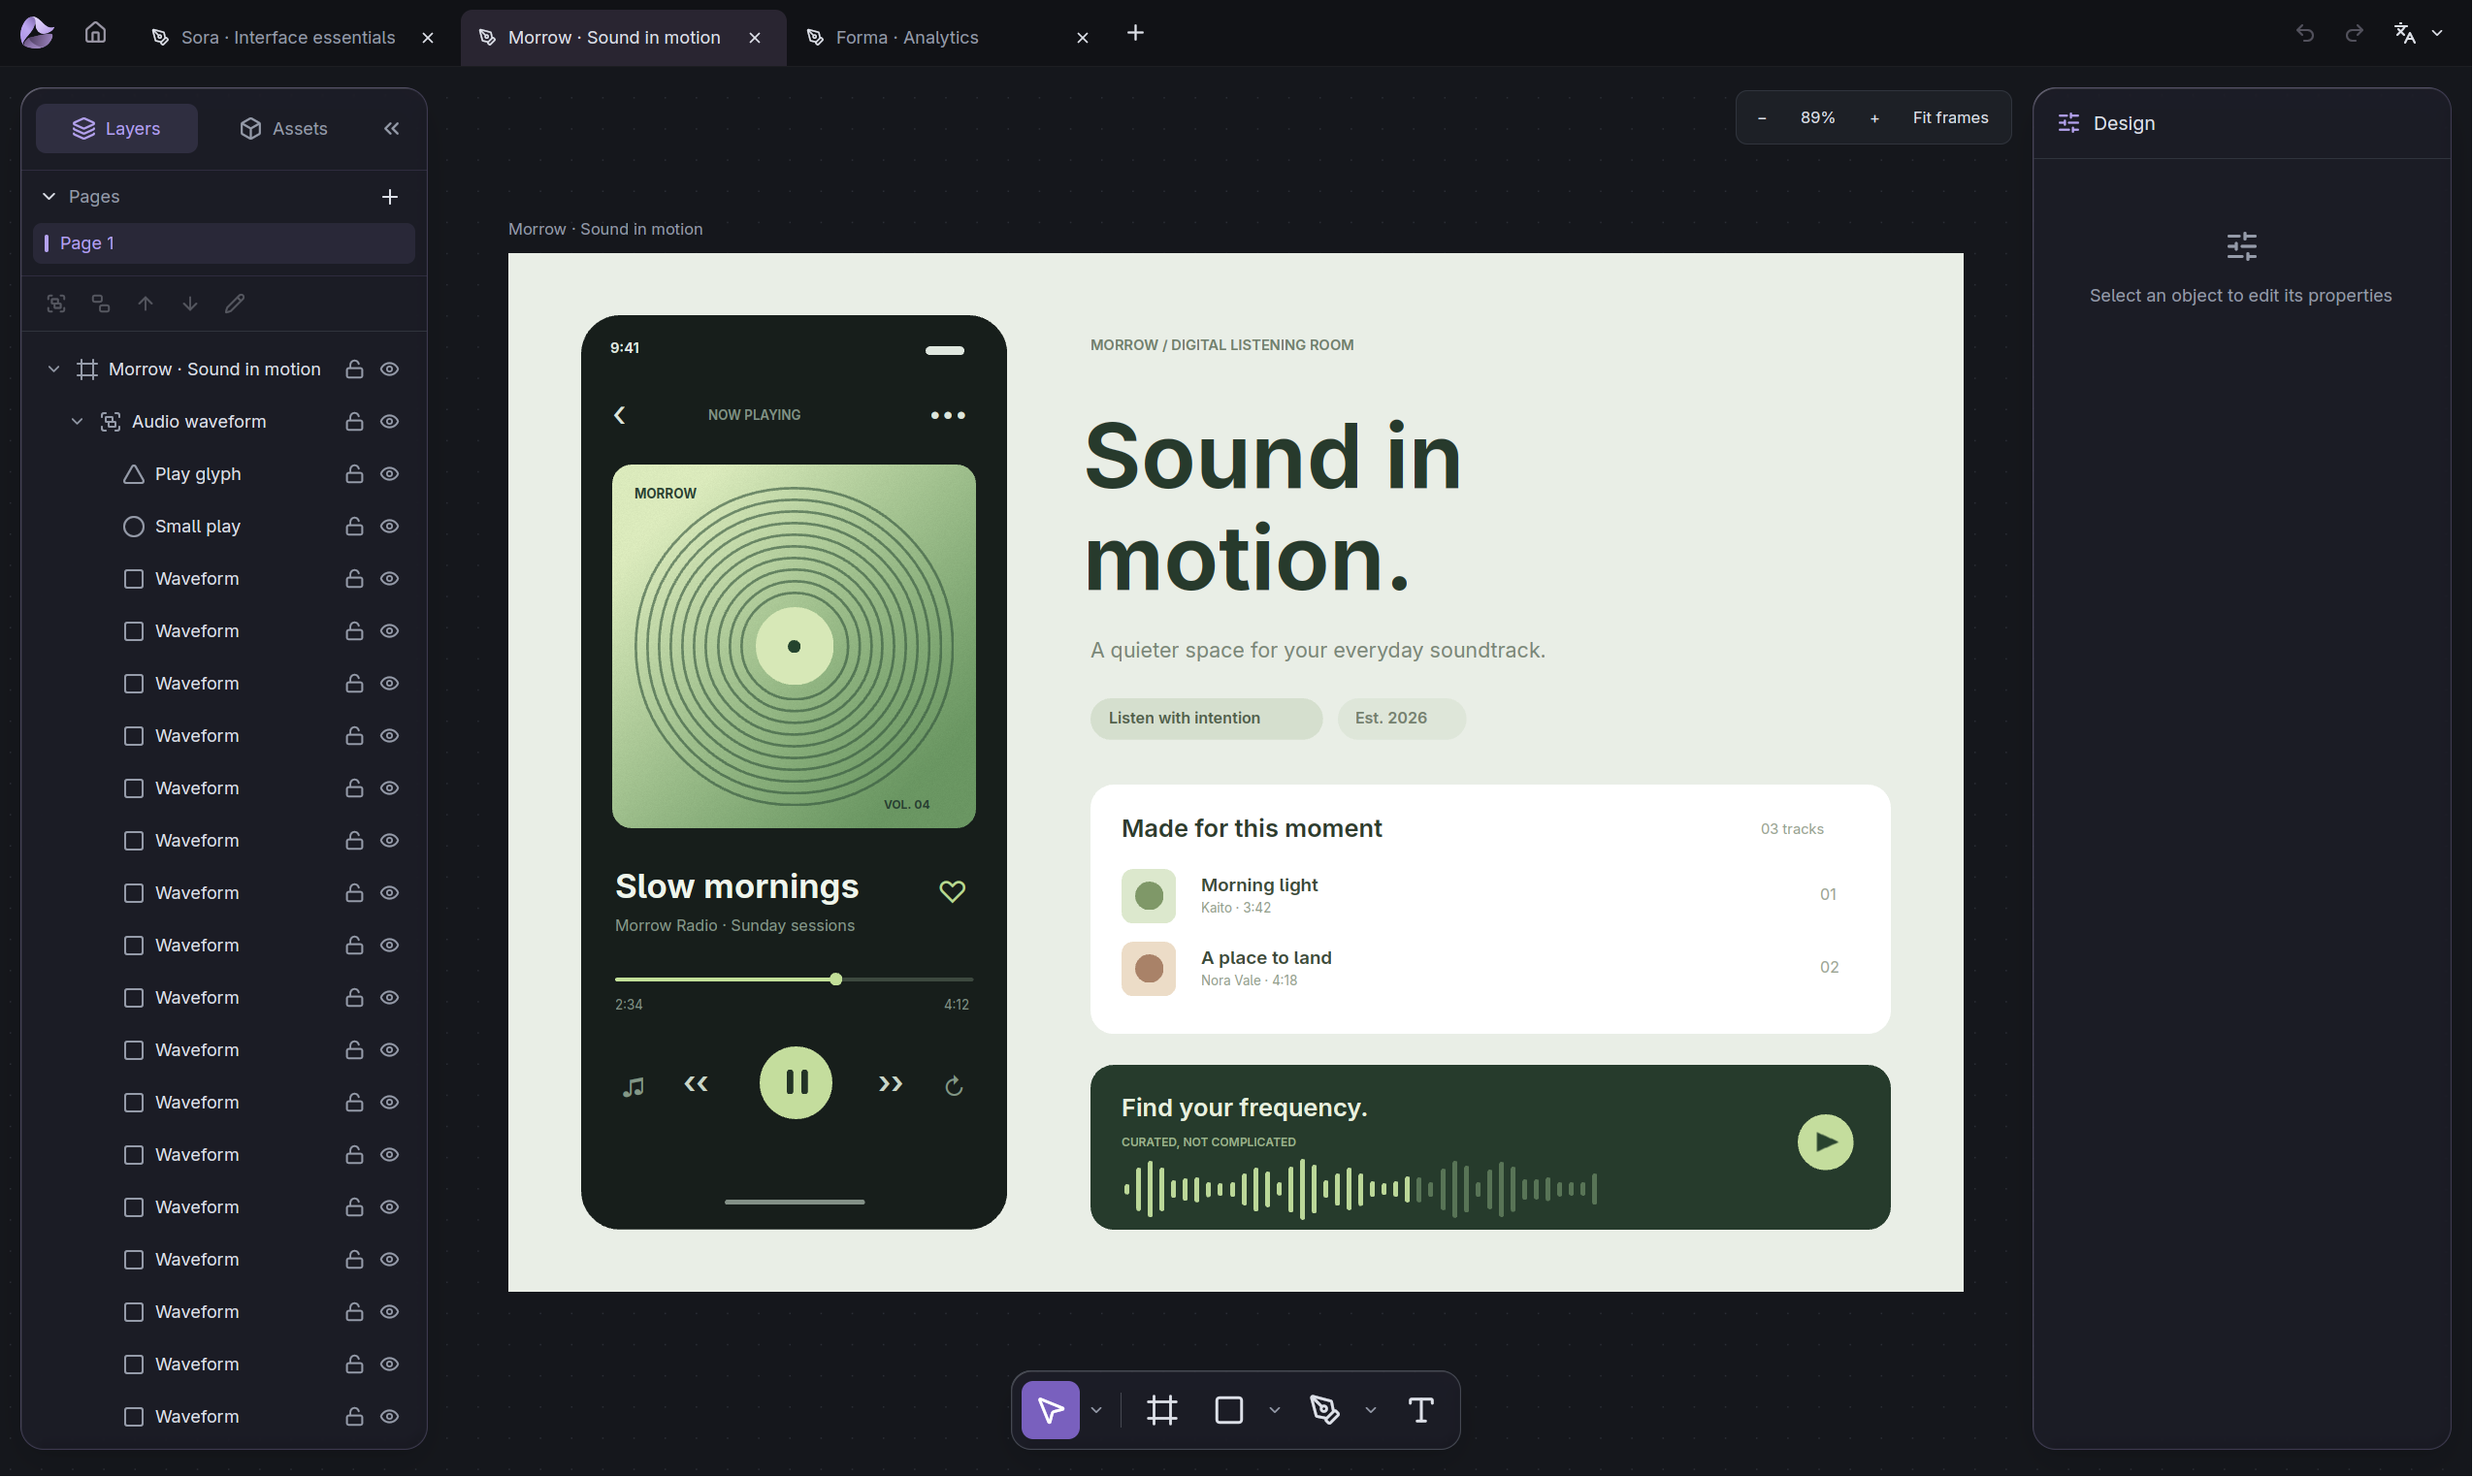
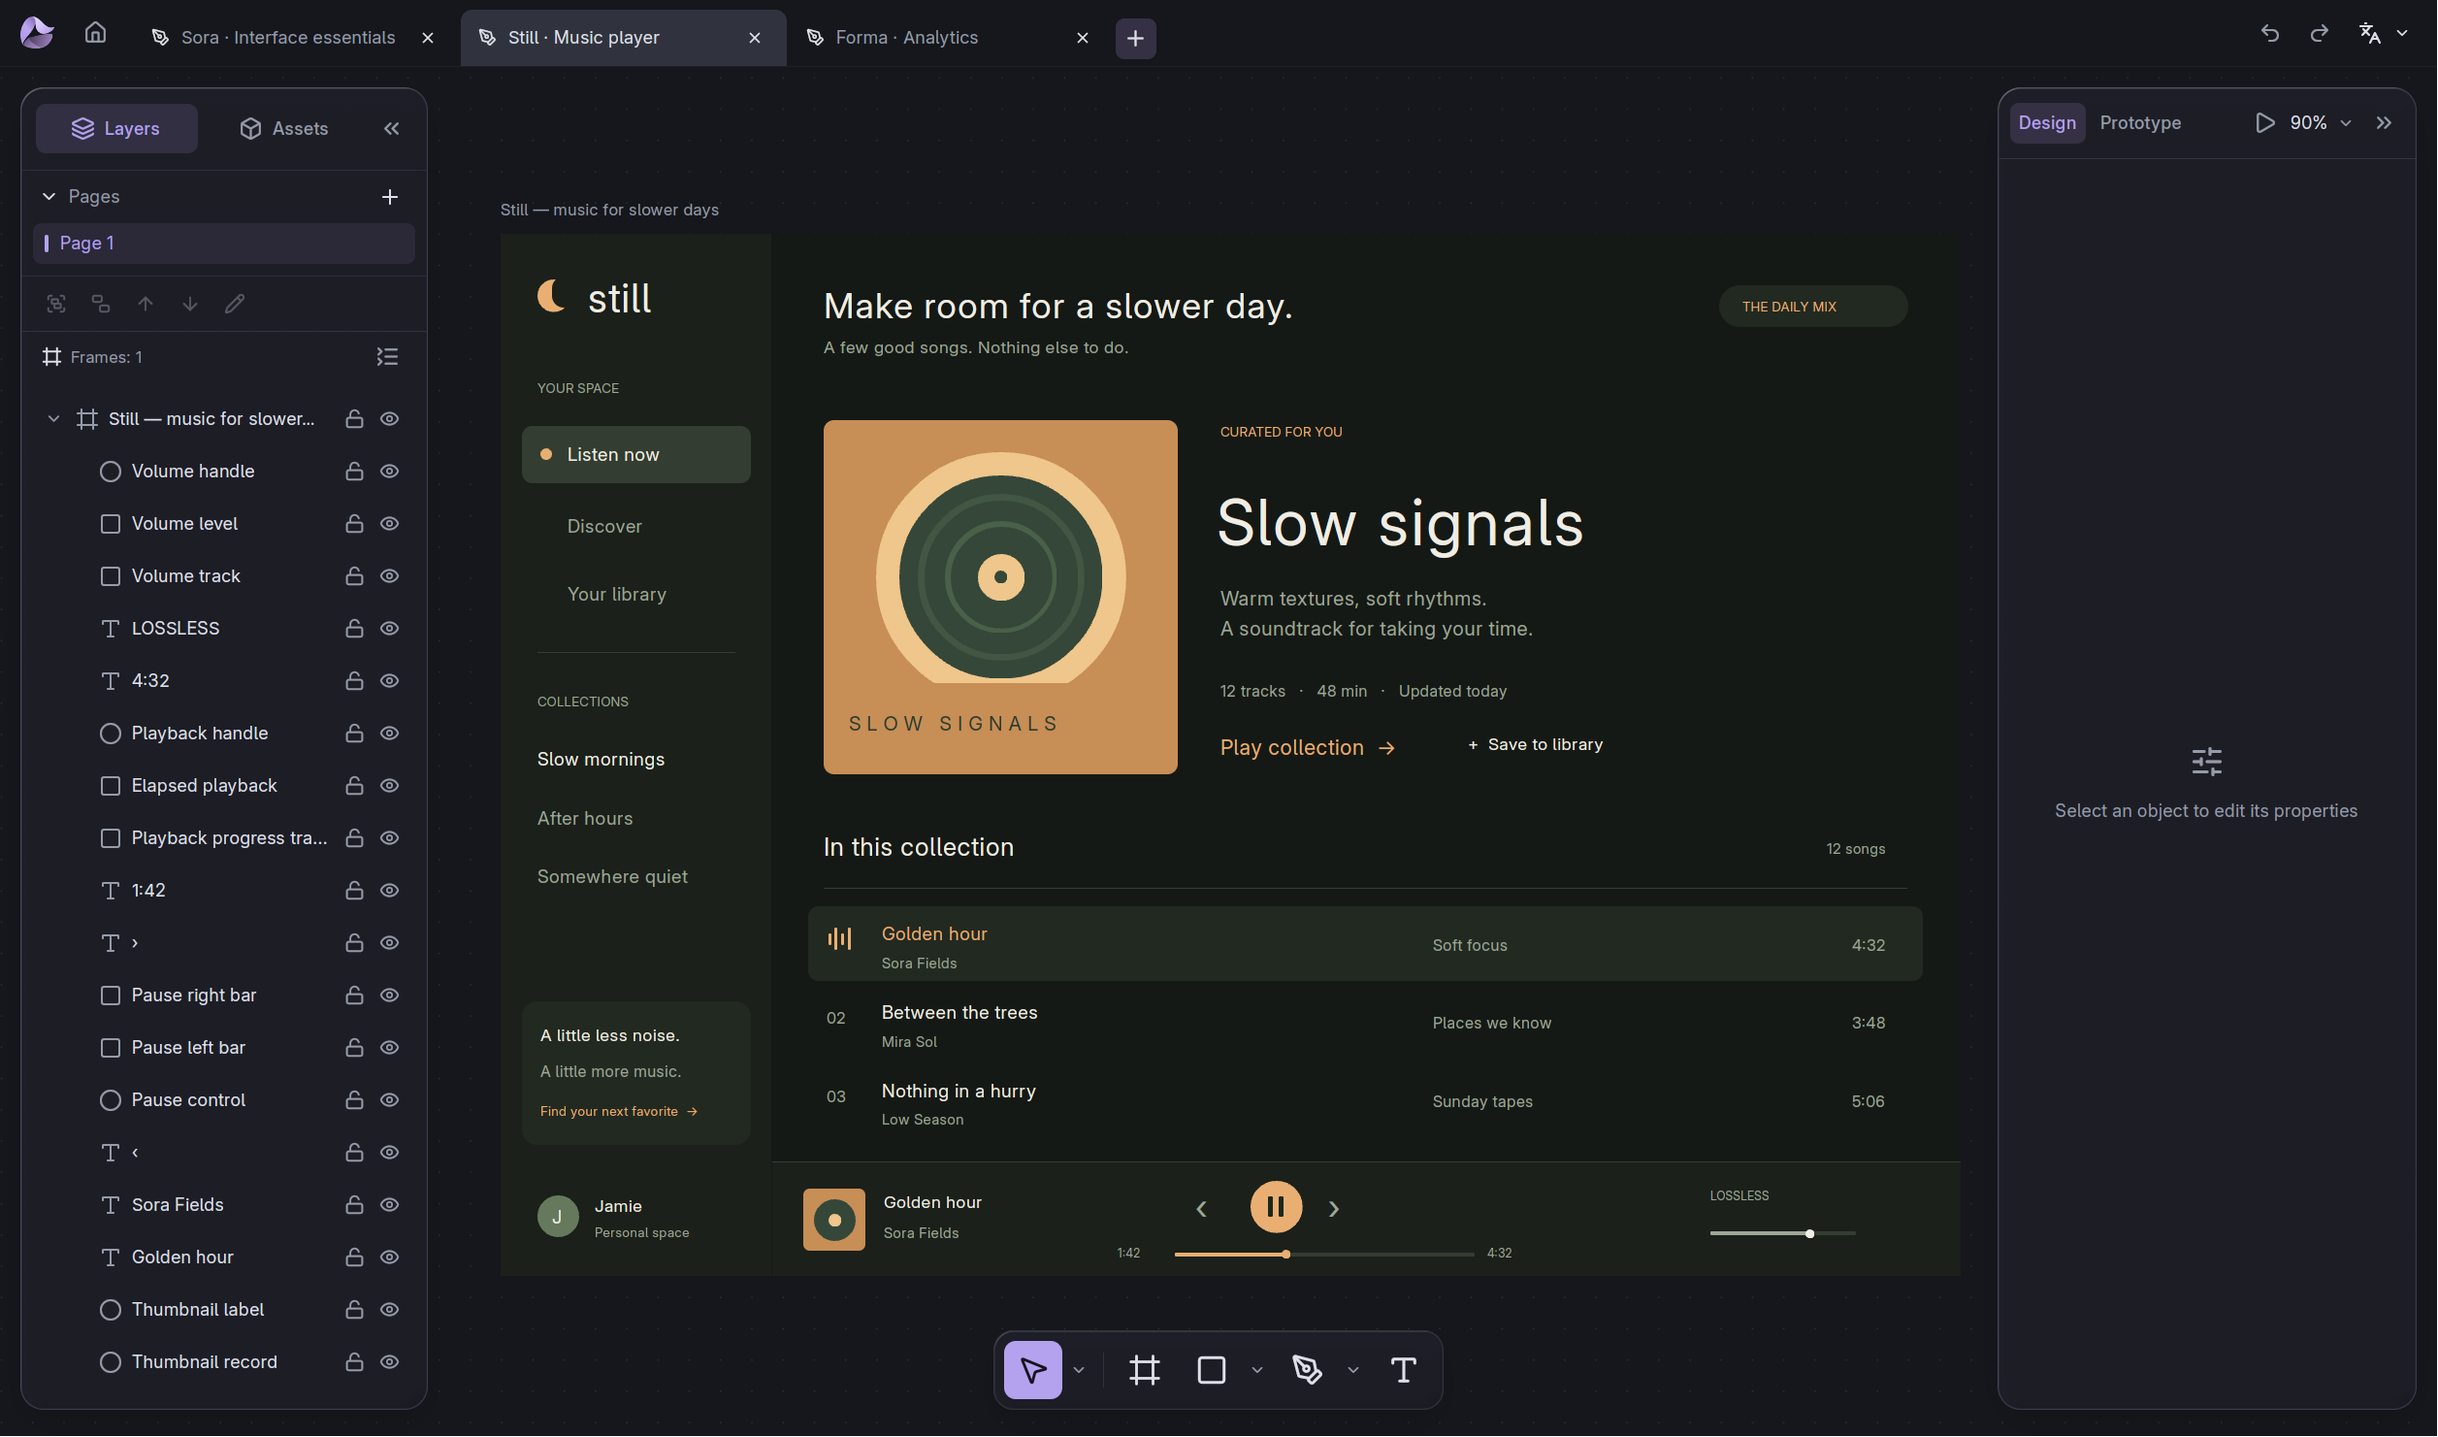
docs: refresh screenshots and mark 0.3.0 released

diff --git a/README.md b/README.md
@@ -10,7 +10,7 @@ I want to build a beautiful, cross-platform UI design tool that is easy for AI a
 
 ![Forma analytics dashboard](docs/screenshots/analytics.png)
 
-![Morrow music player](docs/screenshots/music.png)
+![Still music player](docs/screenshots/music.png)
 
 ![Sora interface components](docs/screenshots/components.png)
 
@@ -41,6 +41,7 @@ I want to build a beautiful, cross-platform UI design tool that is easy for AI a
 
 ## Planned
 
+- [ ] **Android support**.
 - [ ] **Visual effects** — glass and mixed effect stacks.
 - [ ] **Animation** — keyframes, easing, animated gradients, and layer effects.
 - [ ] **Advanced interactions** — additional triggers, scrollable areas, and more transition styles.

diff --git a/CHANGELOG.md b/CHANGELOG.md
@@ -1,6 +1,6 @@
 # Changelog
 
-## 0.3.0 (Unreleased)
+## 0.3.0 (Released)
 
 AI agents can now create and refine editable designs in the running desktop editor, with a local protocol and the `rovar-design` skill.
 
@@ -29,7 +29,7 @@ AI agents can now create and refine editable designs in the running desktop edit
 - Preserve keyboard focus when scrubbing gradients or clicking inspector and font controls.
 - Fix first-time macOS app packaging when the destination application bundle does not exist.
 
-## 0.2.0 (Released)
+## 0.2.0
 
 ### Added
 

diff --git a/README.zh-CN.md b/README.zh-CN.md
@@ -10,7 +10,7 @@
 
 ![Forma 数据面板](docs/screenshots/analytics.png)
 
-![Morrow 音乐播放器](docs/screenshots/music.png)
+![Still 音乐播放器](docs/screenshots/music.png)
 
 ![Sora 界面组件](docs/screenshots/components.png)
 
@@ -41,6 +41,7 @@
 
 ## 计划
 
+- [ ] **Android 端支持**。
 - [ ] **视觉特效** — 玻璃与混合特效叠加。
 - [ ] **动画** — 关键帧、缓动、动态渐变与图层特效。
 - [ ] **高级交互** — 更多事件触发、滚动区域与过渡样式。
